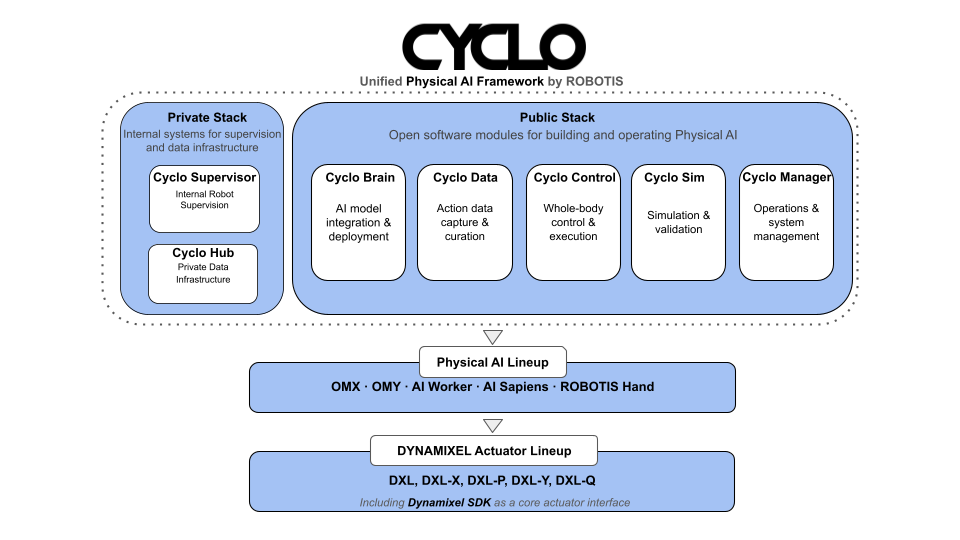
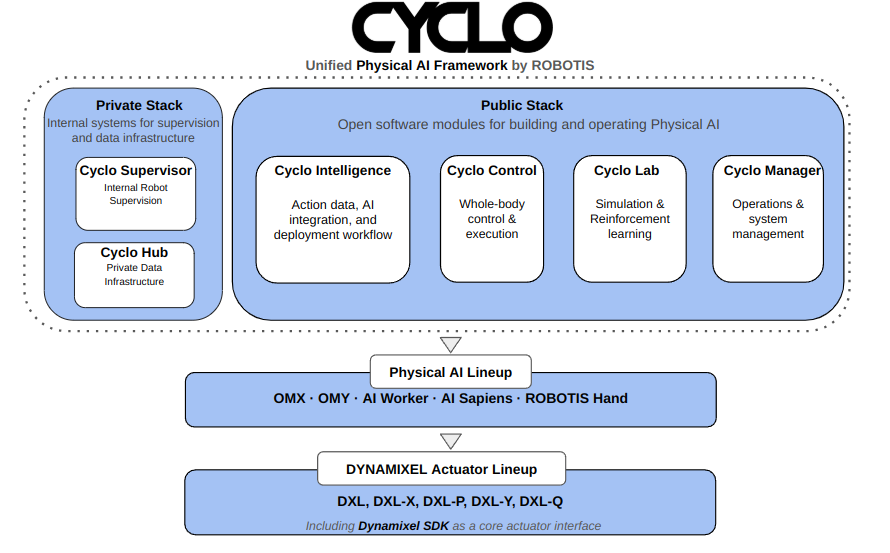
modified

diff --git a/README.md b/README.md
@@ -31,10 +31,9 @@ Cyclo is a modular framework for building and operating **Physical AI** systems.
 | Module | Repository | Role | Release |
 |--------|------------|------|---------|
 | Cyclo Manager | [`cyclo_manager`](https://github.com/ROBOTIS-GIT/cyclo_manager) | Operations and system management | ![not released](https://img.shields.io/badge/release-not_released-lightgrey?style=flat-square) |
-| Cyclo Brain | [`cyclo_brain`](https://github.com/ROBOTIS-GIT/cyclo_brain) | AI model integration and deployment | ![not released](https://img.shields.io/badge/release-not_released-lightgrey?style=flat-square) |
-| Cyclo Data | [`cyclo_data`](https://github.com/ROBOTIS-GIT/cyclo_data) | Action data capture and curation | ![not released](https://img.shields.io/badge/release-not_released-lightgrey?style=flat-square) |
+| Cyclo Intelligence | [`cyclo_intelligence`](https://github.com/ROBOTIS-GIT/cyclo_intelligence) | Next-generation imitation learning workflows | ![not released](https://img.shields.io/badge/release-not_released-lightgrey?style=flat-square) |
 | Cyclo Control | [`cyclo_control`](https://github.com/ROBOTIS-GIT/cyclo_control) | Whole-body control and execution | [![release](https://img.shields.io/github/v/release/ROBOTIS-GIT/cyclo_control?style=flat-square)](https://github.com/ROBOTIS-GIT/cyclo_control/releases) |
-| Cyclo Sim | `cyclo_sim` | Simulation and validation | ![not released](https://img.shields.io/badge/release-not_released-lightgrey?style=flat-square) |
+| Cyclo Lab | cyclo_lab | Simulation and Reinforcement Learning | ![not released](https://img.shields.io/badge/release-not_released-lightgrey?style=flat-square) |
 | — | [`robotis_interfaces`](https://github.com/ROBOTIS-GIT/robotis_interfaces) | Shared interface definitions | [![release](https://img.shields.io/github/v/release/ROBOTIS-GIT/robotis_interfaces?style=flat-square)](https://github.com/ROBOTIS-GIT/robotis_interfaces/releases) |
 | — | [`robotis_applications`](https://github.com/ROBOTIS-GIT/robotis_applications) | Application-level integrations and third-party dependencies | ![not released](https://img.shields.io/badge/release-not_released-lightgrey?style=flat-square) |
 
